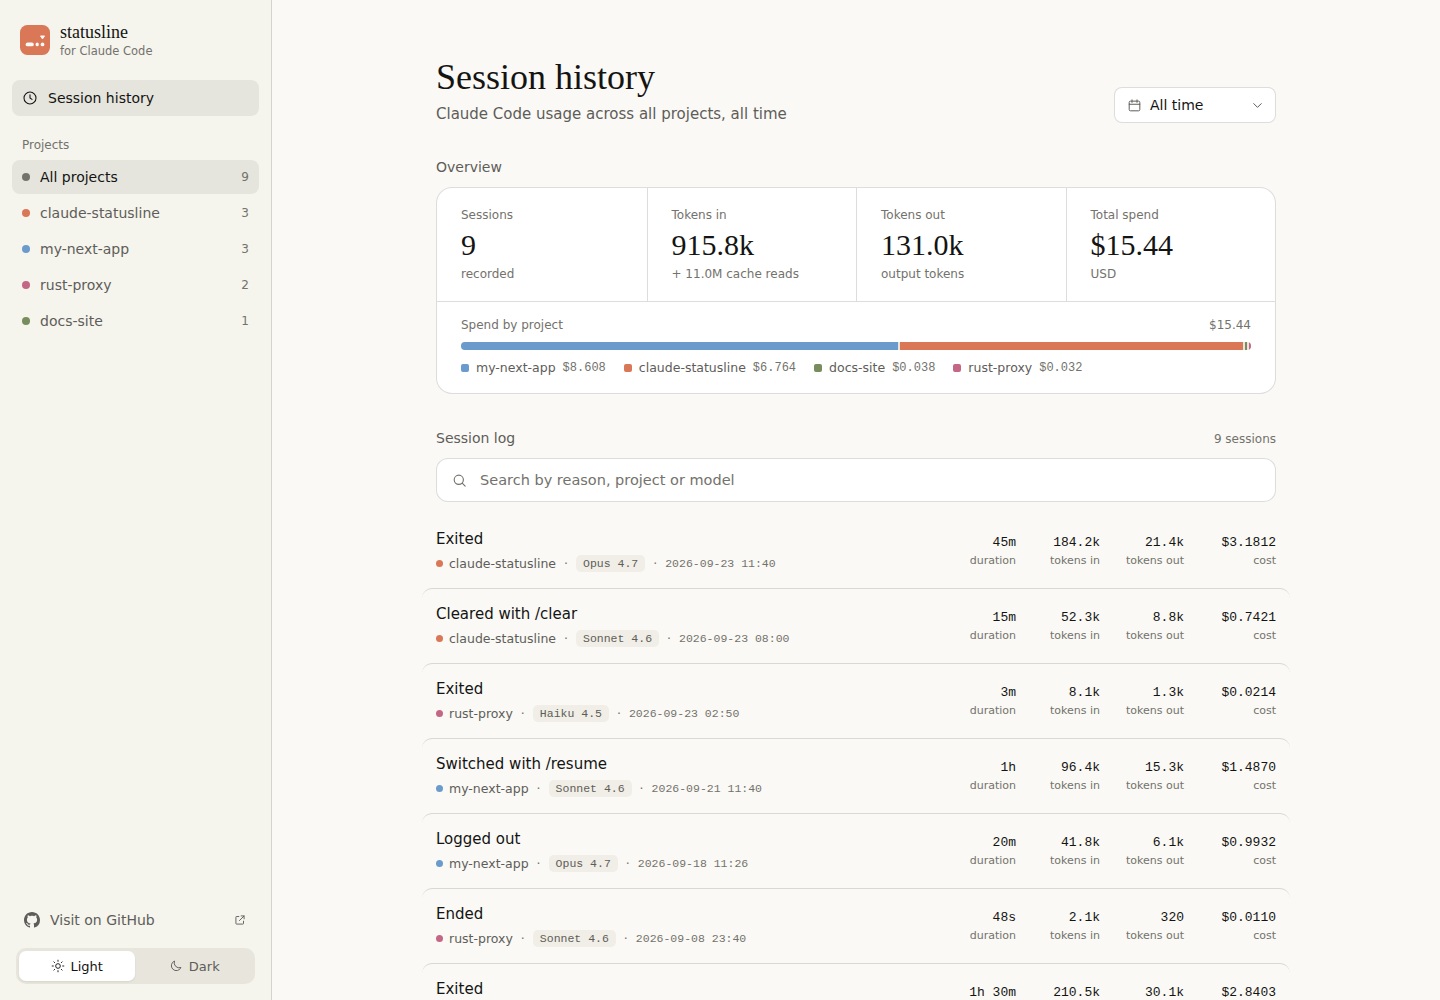
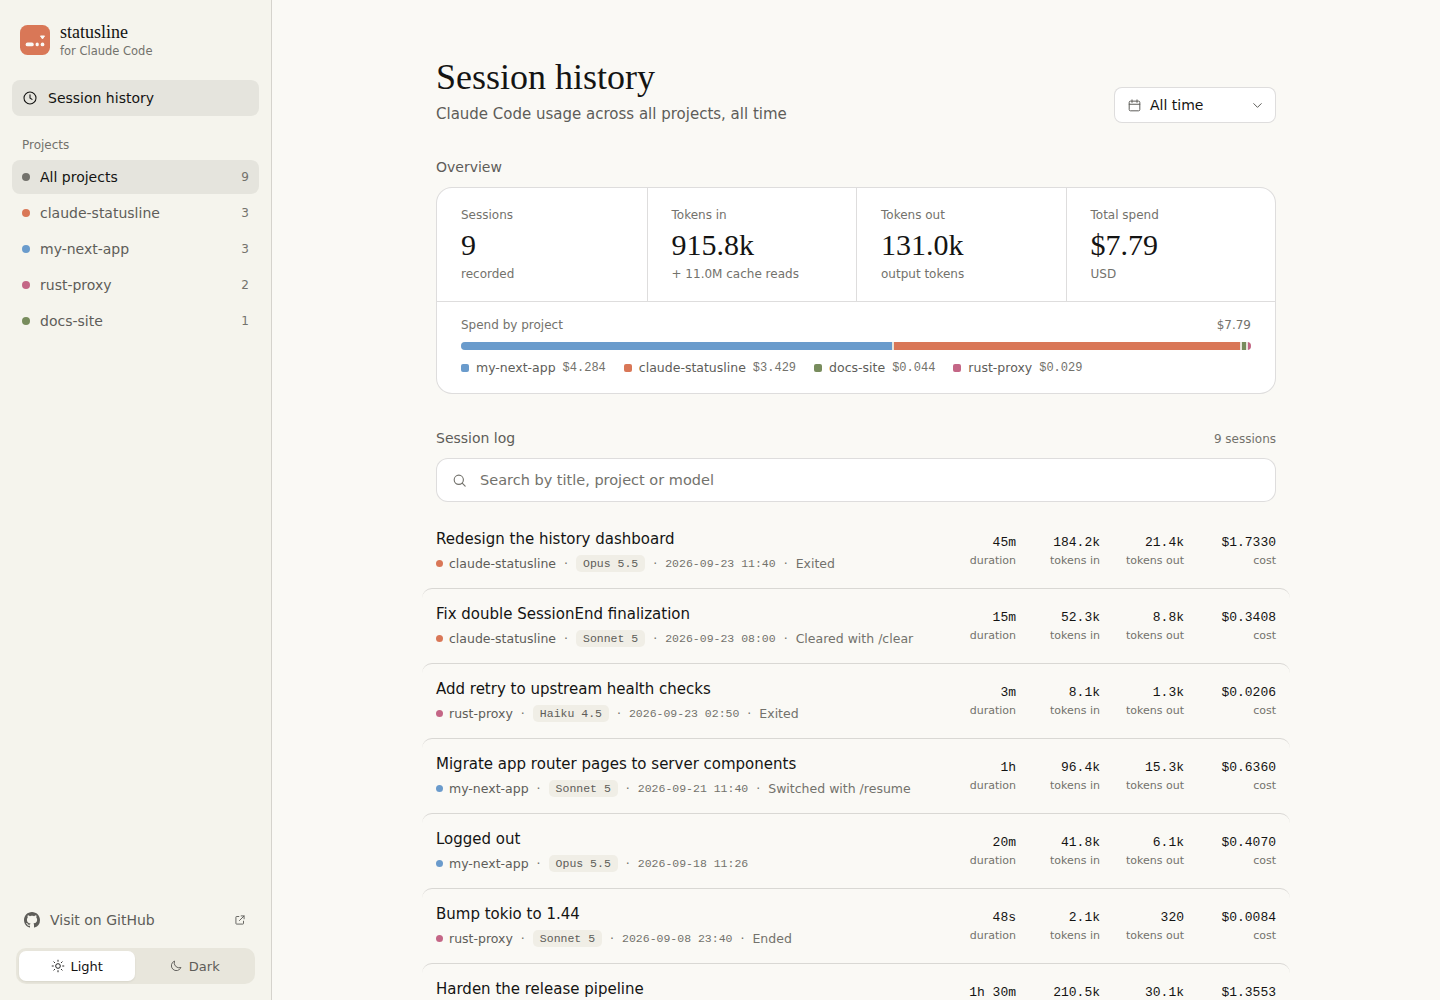
docs: sample history on current models with matching costs
Costs follow the published per-model rates: tokens in at the 5-minute
cache write rate, cache reads and output at their own rates.

diff --git a/dashboard-design/history.js b/dashboard-design/history.js
@@ -1,9 +1,9 @@
-h(["a1f3c9e2","claude-statusline","Opus 4.7",1790152800,2710,184200,1920000,21400,3.1812,"prompt_input_exit","Redesign the history dashboard"]);
-h(["b72d0e41","claude-statusline","Sonnet 4.6",1790139600,940,52300,610000,8800,0.7421,"clear","Fix double SessionEnd finalization"]);
-h(["c09a5b17","rust-proxy","Haiku 4.5",1790121000,185,8120,41000,1260,0.0214,"prompt_input_exit","Add retry to upstream health checks"]);
-h(["d4e8f302","my-next-app","Sonnet 4.6",1789980000,3620,96400,1210000,15300,1.4870,"resume","Migrate app router pages to server components"]);
-h(["e5b1a7c8","my-next-app","Opus 4.7",1789720000,1250,41800,380000,6100,0.9932,"logout",""]);
-h(["f6c2b9d0","rust-proxy","Sonnet 4.6",1788900000,48,2100,0,320,0.0110,"other","Bump tokio to 1.44"]);
-h(["07d3cae1","claude-statusline","Sonnet 4.6",1787200000,5400,210500,2640000,30100,2.8403,"prompt_input_exit","Harden the release pipeline"]);
-h(["18e4dbf2","docs-site","Haiku 4.5",1782000000,610,15400,98000,2900,0.0381,"clear","Rewrite install guide"]);
-h(["29f5ec03","my-next-app","Opus 4.7",1770000000,7200,305000,4100000,44800,6.1275,"prompt_input_exit","Checkout flow A/B test"]);
+h(["a1f3c9e2","claude-statusline","Opus 5.5",1790152800,2710,184200,1920000,21400,1.733,"prompt_input_exit","Redesign the history dashboard"]);
+h(["b72d0e41","claude-statusline","Sonnet 5",1790139600,940,52300,610000,8800,0.3408,"clear","Fix double SessionEnd finalization"]);
+h(["c09a5b17","rust-proxy","Haiku 4.5",1790121000,185,8120,41000,1260,0.0206,"prompt_input_exit","Add retry to upstream health checks"]);
+h(["d4e8f302","my-next-app","Sonnet 5",1789980000,3620,96400,1210000,15300,0.636,"resume","Migrate app router pages to server components"]);
+h(["e5b1a7c8","my-next-app","Opus 5.5",1789720000,1250,41800,380000,6100,0.407,"logout",""]);
+h(["f6c2b9d0","rust-proxy","Sonnet 5",1788900000,48,2100,0,320,0.0084,"other","Bump tokio to 1.44"]);
+h(["07d3cae1","claude-statusline","Sonnet 5",1787200000,5400,210500,2640000,30100,1.3553,"prompt_input_exit","Harden the release pipeline"]);
+h(["18e4dbf2","docs-site","Haiku 4.5",1782000000,610,15400,98000,2900,0.0436,"clear","Rewrite install guide"]);
+h(["29f5ec03","my-next-app","Opus 5.5",1770000000,7200,305000,4100000,44800,3.241,"prompt_input_exit","Checkout flow A/B test"]);
